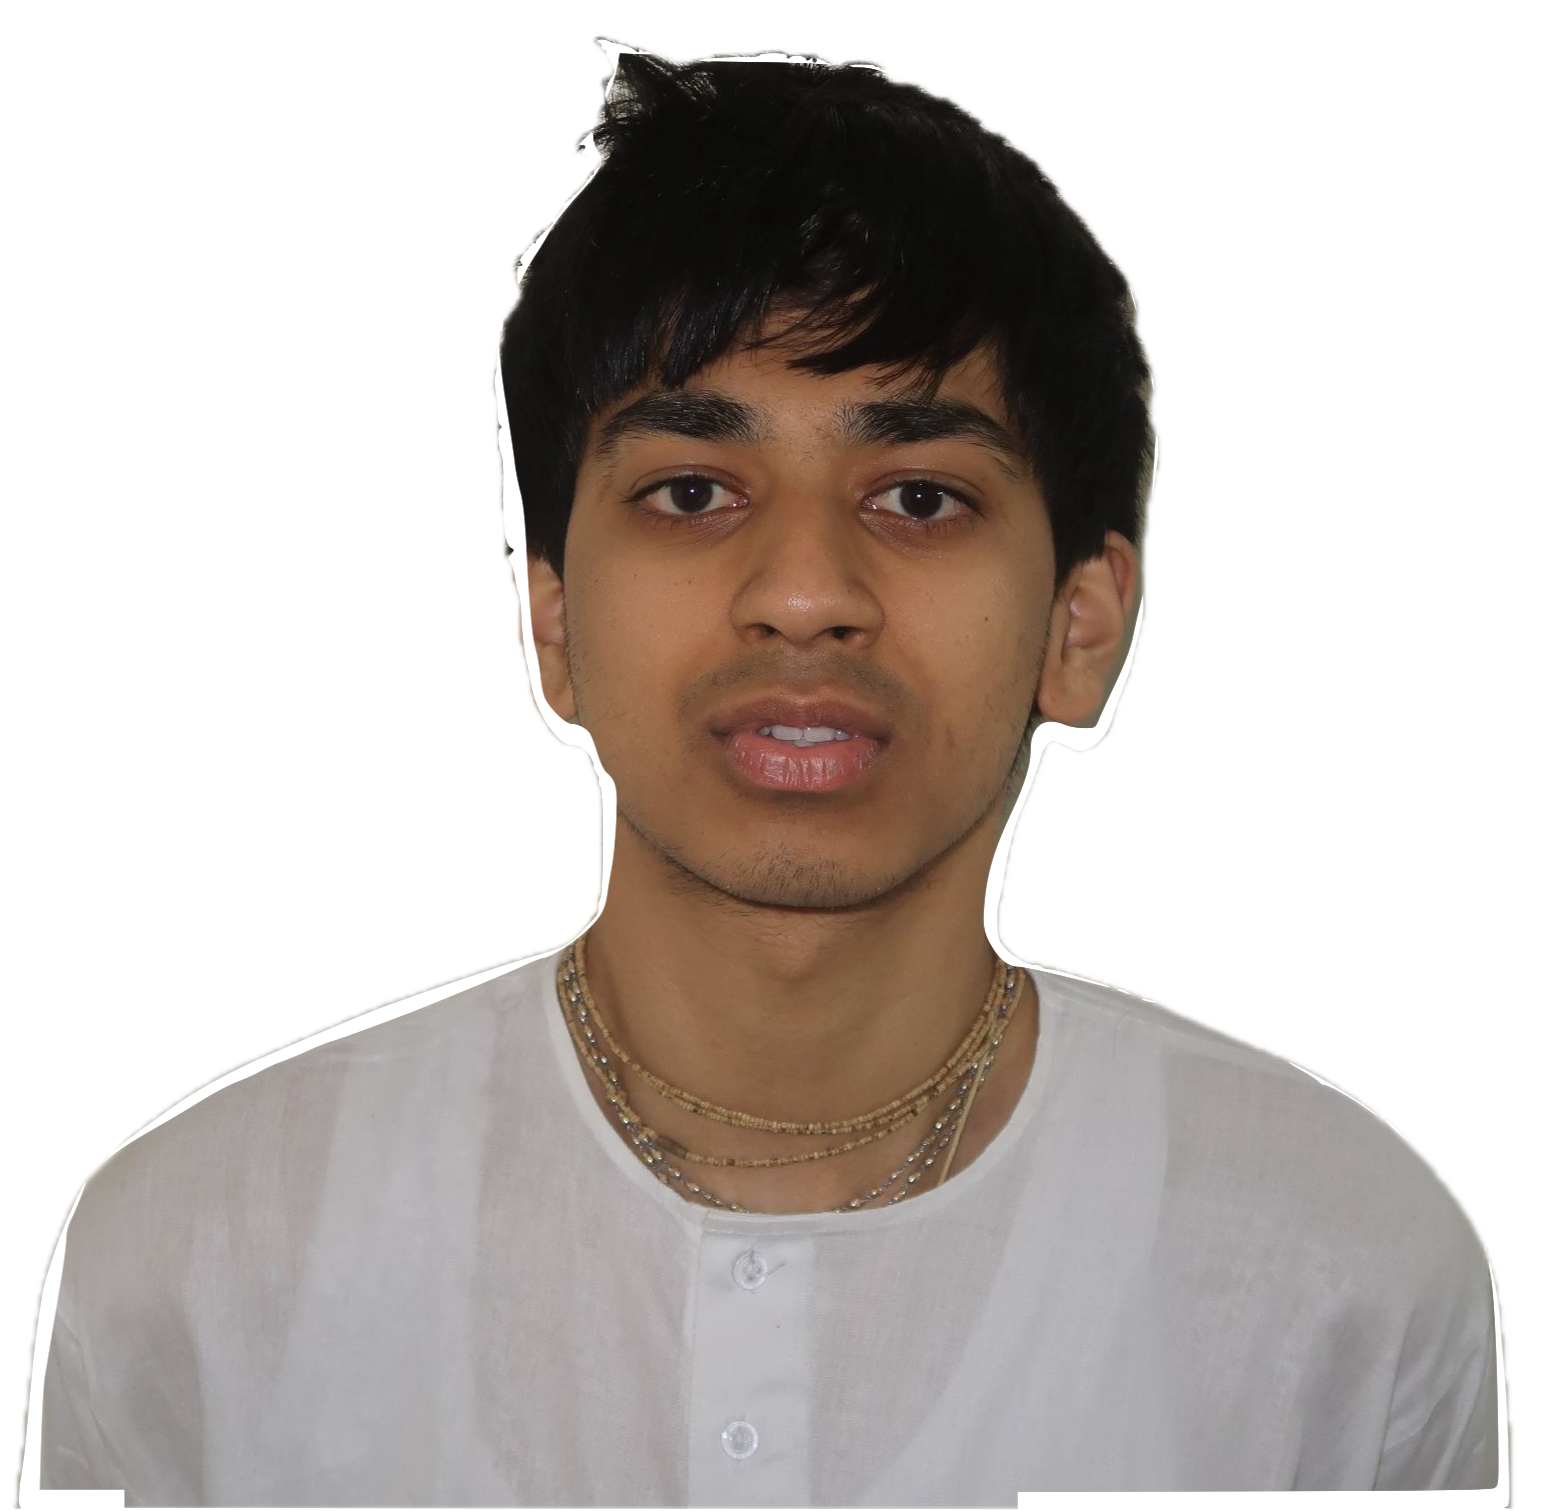
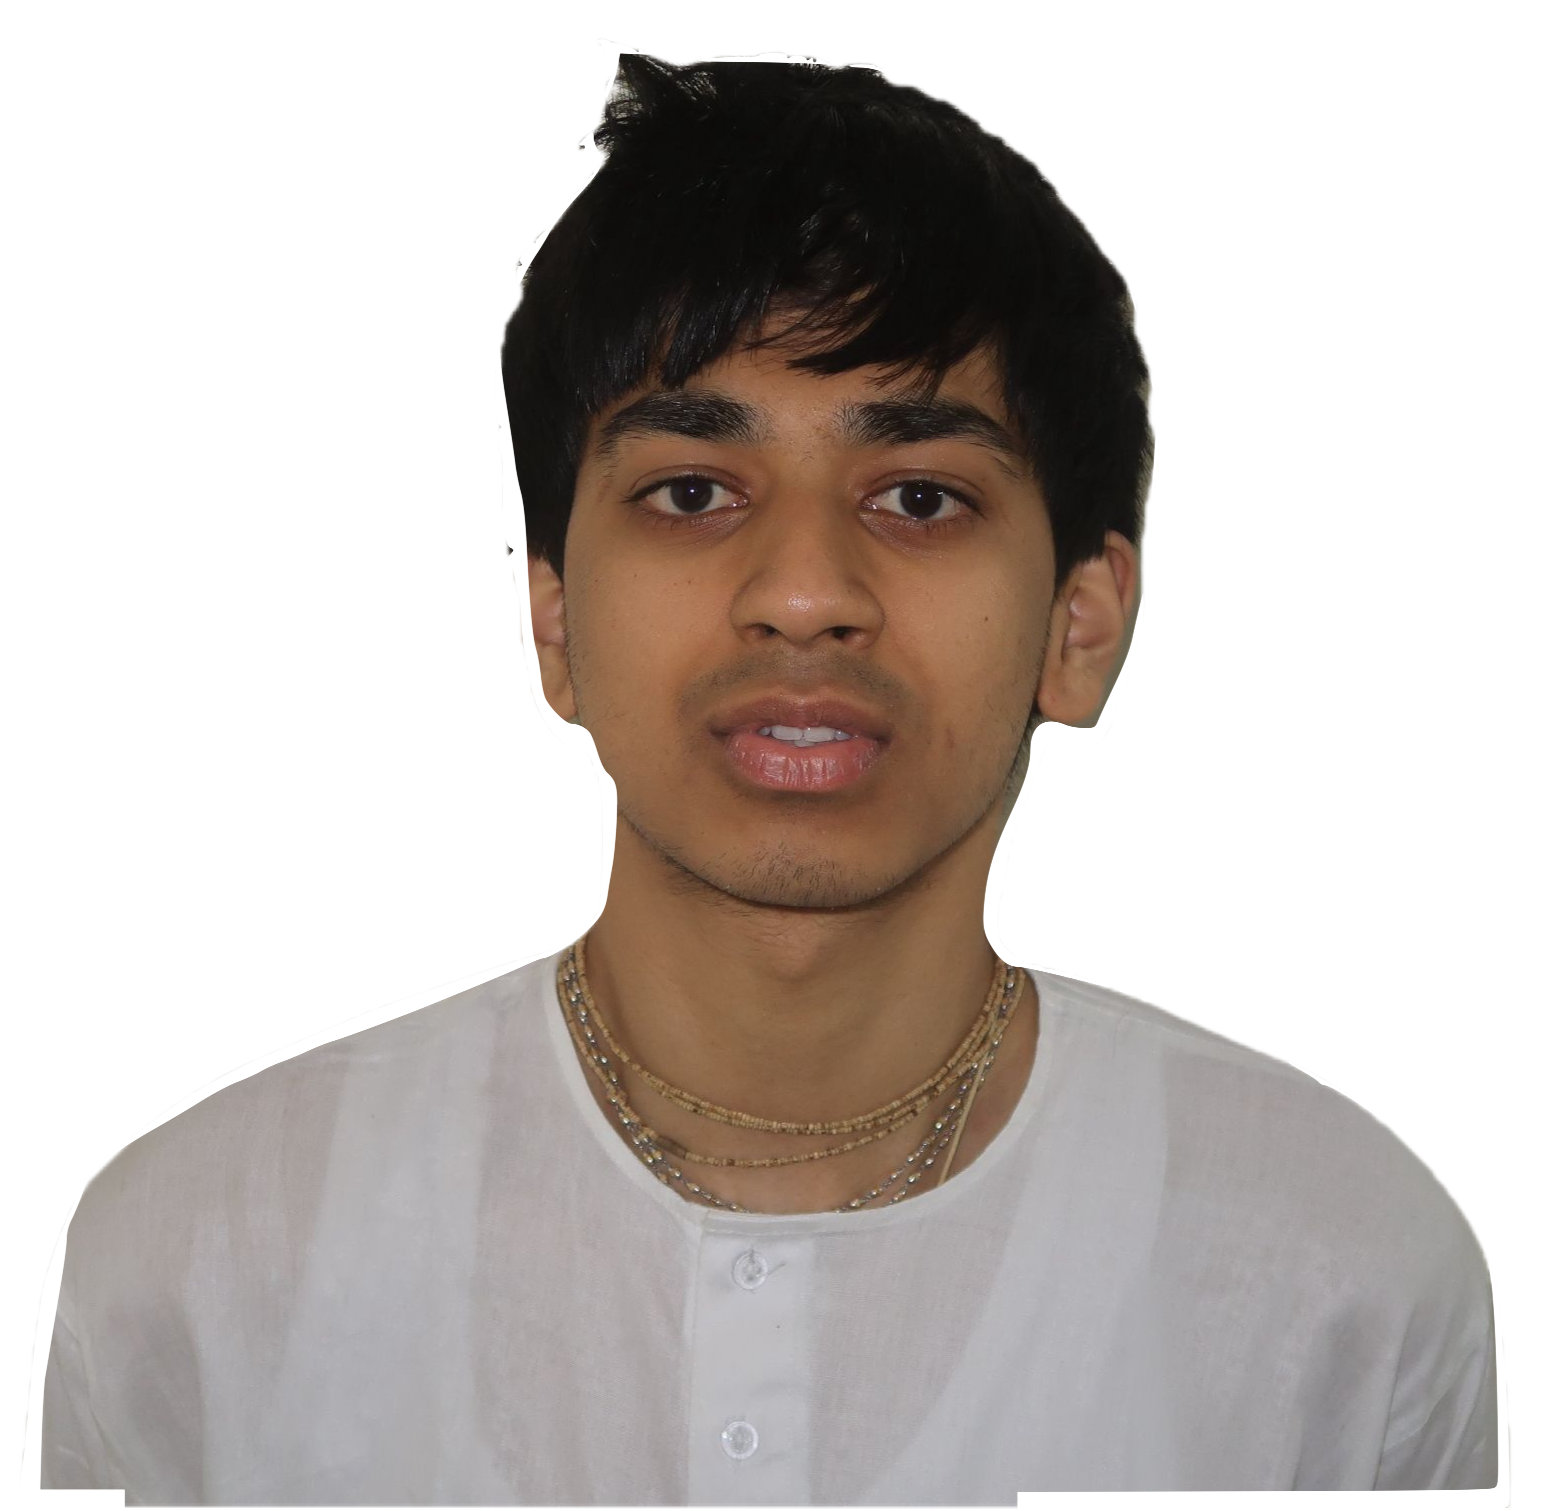
dress uo fixed

diff --git a/style.css b/style.css
@@ -499,8 +499,9 @@ top: calc(540px * var(--scale_clothes));
 }
 
 .DHRUVLEFT{position: relative;top: 40vh;left: 0vw;display: flex;width: 20vw;z-index: 3;}
-.DHRUVBYE{position: relative;top: -35vh;left: 14vw;display: flex;width:55vw;z-index: 0;padding: 0px 0px 0px 0px}
+.DHRUVBYE{position: relative;top: -25vh;left: 30vw;display: flex;width:20vw;z-index: 1;} 
 /* EXTRA BG  */
+
 .extrabg{
   position: relative;
   top: 40vh;

diff --git a/HOME.html b/HOME.html
@@ -253,7 +253,7 @@
     <img src="dhruv/4.jpeg" class="DHRUVFOUR">
     <img src="dhruv/9.jpeg" class="DHRUVFIVE">
     <img src="dhruv/DHRUVHEAD.png" class="DHRUVLEFT">
-    <img src="dhruv/DHRUVHEAD3.png" class="DHRUVBYE">
+    <img src="dhruv/DHRUVHEAD4.png" class="DHRUVBYE">
     <p class="DHRUVmini">উনি</p>
     <p class="DHRUVdescription">ধ্রুব অগ্রবাল  </p>
   </div>
